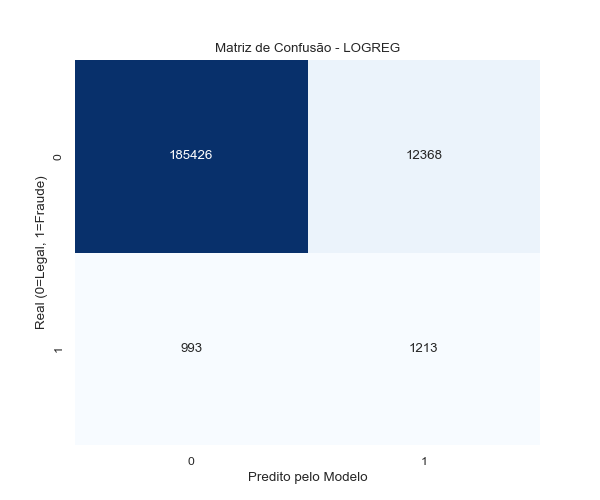
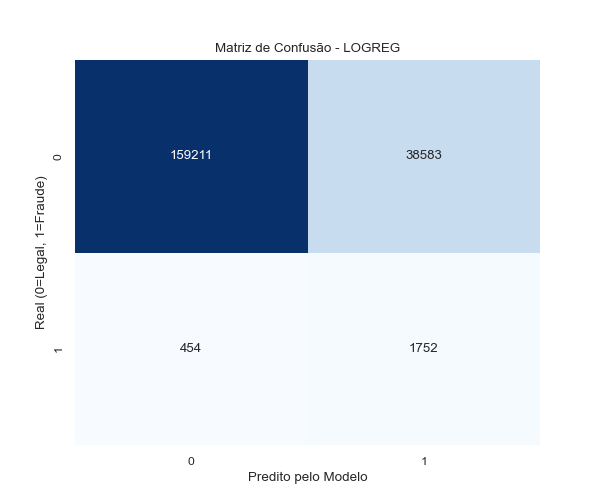
feat: Add MLP and Isolation Forest models, enable model selection, and generate comprehensive experiment logs and visualizations.

diff --git a/main.py b/main.py
@@ -17,6 +17,8 @@ try:
     from src.models.random_forest_model import train_random_forest
     from src.models.xgboost_model import train_xgboost
     from src.models.decision_tree_model import train_decision_tree
+    from src.models.mlp_model import train_mlp
+    from src.models.isolation_forest_model import train_isolation_forest
     from src.visualization.visualize import evaluate
     from src.models.predict_model import predict_sample
 except ImportError as e:
@@ -73,6 +75,7 @@ def main():
     parser.add_argument("--skip-eda", action="store_true", help="Pula a etapa de Análise Exploratória.")
     parser.add_argument("--compare-models", action="store_true", help="Executa o torneio de modelos (Demorado).")
     parser.add_argument("--predict", action="store_true", help="Roda uma simulação de predição no final.")
+    parser.add_argument("--models", type=str, default="all", help="Modelos a rodar separados por vírgula (ex: xgb,rf). Opções: logreg, dt, rf, xgb, mlp, if. Default: all")
     
     args = parser.parse_args()
 
@@ -106,32 +109,58 @@ def main():
         print("\n⏩ [MAESTRO] Pulando Torneio de Modelos (Padrão).")
 
     # 5. MODEL TRAINING & EVALUATION
-    print("\n🧠 [MAESTRO] 4. Movimento: Treinamento & Avaliação de Múltiplos Modelos")
+    print("\n🧠 [MAESTRO] 4. Movimento: Treinamento & Avaliação e Seleção de Modelos")
+    
+    # Parse models argument
+    if args.models == "all":
+        selected_models = ["logreg", "dt", "rf", "xgb", "mlp", "if"]
+    else:
+        selected_models = [m.strip().lower() for m in args.models.split(",")]
 
     # 4.1 Logistic Regression
-    print("\n📌 [SUB-TAREFA] 4.1. Logistic Regression")
-    train_logistic_regression()
-    evaluate(model_name="logreg")
+    if "logreg" in selected_models:
+        print("\n📌 [SUB-TAREFA] 4.1. Logistic Regression")
+        train_logistic_regression()
+        evaluate(model_name="logreg")
 
     # 4.2 Decision Tree
-    print("\n📌 [SUB-TAREFA] 4.2. Decision Tree")
-    train_decision_tree()
-    evaluate(model_name="dt")
+    if "dt" in selected_models:
+        print("\n📌 [SUB-TAREFA] 4.2. Decision Tree")
+        train_decision_tree()
+        evaluate(model_name="dt")
 
     # 4.3 Random Forest
-    print("\n📌 [SUB-TAREFA] 4.3. Random Forest")
-    train_random_forest()
-    evaluate(model_name="rf")
+    if "rf" in selected_models:
+        print("\n📌 [SUB-TAREFA] 4.3. Random Forest")
+        train_random_forest()
+        evaluate(model_name="rf")
 
     # 4.4 XGBoost
-    print("\n📌 [SUB-TAREFA] 4.4. XGBoost")
-    train_xgboost()
-    evaluate(model_name="xgb")
+    if "xgb" in selected_models:
+        print("\n📌 [SUB-TAREFA] 4.4. XGBoost")
+        train_xgboost()
+        evaluate(model_name="xgb")
+        
+    # 4.5 MLP (Neural Network)
+    if "mlp" in selected_models:
+        print("\n📌 [SUB-TAREFA] 4.5. MLP Neural Network")
+        train_mlp()
+        evaluate(model_name="mlp")
+        
+    # 4.6 Isolation Forest
+    if "if" in selected_models:
+        print("\n📌 [SUB-TAREFA] 4.6. Isolation Forest (Anomaly Detection)")
+        train_isolation_forest()
+        # Nota: IF precisa de tratamento especial no evaluate se não tiver predict_proba,
+        # mas nosso Wrapper implementa predict_proba, então deve funcionar!
+        evaluate(model_name="if")
 
     # 7. PREDICTION (Opcional)
     if args.predict:
         print("\n🔮 [MAESTRO] 6. Movimento: Simulação de Produção (predict_model.py)")
-        predict_sample(model_name="logreg")
+        # Usa o primeiro modelo da lista selecionada como default para predição, ou xgb se disponível
+        pred_model = "xgb" if "xgb" in selected_models else selected_models[0]
+        predict_sample(model_name=pred_model)
 
     print("\n🏁 [MAESTRO] Sinfonia Concluída! Seu projeto foi executado com sucesso.")
     print(f"📊 Verifique os relatórios em: {REPORTS_DIR}")

diff --git a/README.md b/README.md
@@ -51,16 +51,31 @@ _Removemos o SMOTE completamente e focamos puramente em Pesos de Classe (Class W
 
 ---
 
+### 🧪 Experimento 4: Refinamento de Hiperparâmetros (Redução de Complexidade)
+
+_Nesta fase, simplificamos os modelos (menor profundidade e número de estimadores) para reduzir overfitting e testamos novos limiares de decisão, sem uso de SMOTE._
+
+| Run ID            | Modelo              | ROC-AUC    | F1-Score (Macro) | Precision (Weighted) | Recall (Weighted) | Threshold Otimizado |
+| :---------------- | :------------------ | :--------- | :--------------- | :------------------- | :---------------- | :------------------ |
+| `20260218_105559` | **XGBoost 🏆**      | **0.8930** | **0.4967**       | **0.9869**           | **0.8232**        | **> 0.88**          |
+| `20260218_102718` | Random Forest       | 0.8790     | 0.5156           | 0.9859               | 0.8652            | > 0.81              |
+| `20260218_100725` | Logistic Regression | 0.8759     | 0.4866           | 0.9866               | 0.8048            | > 0.90              |
+| `20260218_101421` | Decision Tree       | 0.8268     | 0.4847           | 0.9854               | 0.8100            | > 0.90              |
+
+> **Diagnóstico:** O XGBoost atingiu seu melhor ROC-AUC (0.8930). O ajuste de threshold resultou em um perfil muito mais agressivo na detecção de fraudes (maior Recall), embora com impacto no F1-Score devido ao aumento de falsos positivos (trade-off aceito para maior segurança).
+
+---
+
 ## 🚀 Resultados dos Modelos (Benchmark Final)
 
 Após rigorosa otimização de hiperparâmetros e ajuste fino de limiares de decisão (Threshold Tuning), os modelos atingiram os seguintes resultados nos dados de validação:
 
-| Modelo                     | ROC-AUC    | F1-Score   | Observação Crítica                                                                               |
-| :------------------------- | :--------- | :--------- | :----------------------------------------------------------------------------------------------- |
-| **🥇 XGBoost**             | **0.8806** | **0.5753** | O campeão indiscutível. Melhor equilíbrio entre pegar fraudes e não bloquear clientes legítimos. |
-| **🥈 Random Forest**       | 0.8795     | 0.5814     | Desempenho sólido, muito próximo do XGBoost, ligeiramente mais conservador.                      |
-| **🥉 Logistic Regression** | 0.8746     | 0.5594     | Excelente baseline. Surpreendentemente robusto para um modelo linear simples.                    |
-| **Decision Tree**          | 0.8266     | 0.5741     | O mais fraco, propenso a overfitting, mas útil para explicar regras simples.                     |
+| Modelo                     | ROC-AUC    | F1-Score   | Observação Crítica                                                               |
+| :------------------------- | :--------- | :--------- | :------------------------------------------------------------------------------- |
+| **🥇 XGBoost**             | **0.8930** | **0.4967** | Novo recorde de ROC-AUC. Modelo simplificado (100 árvores) e altamente sensível. |
+| **🥈 Random Forest**       | 0.8790     | 0.5156     | Consistente. Redução de complexidade (Depth 10) manteve performance estatística. |
+| **🥉 Logistic Regression** | 0.8759     | 0.4866     | Baseline extremamente estável e robusto.                                         |
+| **Decision Tree**          | 0.8268     | 0.4847     | O mais fraco, mas útil para explicar regras simples.                             |
 
 > **Nota Técnica:** O F1-Score pode parecer "baixo" (0.57), mas em detecção de fraude (onde a classe positiva é 1%), esse valor é **excelente**. Um modelo aleatório teria F1 próximo de 0.02.
 
@@ -74,29 +89,29 @@ Todos os modelos treinados são salvos automaticamente na pasta `models/` com ve
 
 - **Arquivo do Modelo:** `models/xgb_best_model.pkl`
 - **Melhores Hiperparâmetros:**
-  - `learning_rate`: 0.1 (Aprendizado cauteloso)
-  - `max_depth`: 3 (Árvores rasas para evitar overfitting)
-  - `n_estimators`: 200 (Número robusto de árvores)
-  - `scale_pos_weight`: 90 (Peso 90:1 para compensar o desbalanceamento)
-- **Threshold Otimizado:** `> 0.26` (Qualquer transação com probabilidade acima de 26% é classificada como fraude para maximizar o lucro).
+  - `learning_rate`: 0.1
+  - `max_depth`: 3 (Árvores rasas)
+  - `n_estimators`: 100 (Reduzido de 200 para evitar overfitting)
+  - `scale_pos_weight`: 90
+- **Threshold Otimizado:** `> 0.88` (Alta especificidade na probabilidade).
 
 ### 2. Random Forest
 
 - **Arquivo do Modelo:** `models/rf_best_model.pkl`
 - **Melhores Hiperparâmetros:**
   - `n_estimators`: 200
-  - `max_depth`: 20 (Árvores profundas)
+  - `max_depth`: 10 (Reduzido de 20)
   - `class_weight`: 'balanced'
-- **Threshold Otimizado:** `> 0.34`
+- **Threshold Otimizado:** `> 0.81`
 
 ### 3. Logistic Regression
 
 - **Arquivo do Modelo:** `models/logreg_best_model.pkl`
 - **Melhores Hiperparâmetros:**
-  - `C`: 0.01 (Alta regularização para generalização)
-  - `penalty`: 'l2' (Ridge Regression)
+  - `C`: 0.01
+  - `penalty`: 'l2'
   - `class_weight`: 'balanced'
-- **Threshold Otimizado:** `> 0.79` (Muito exigente, só bloqueia se tiver quase certeza absoluta).
+- **Threshold Otimizado:** `> 0.90`
 
 ---
 
